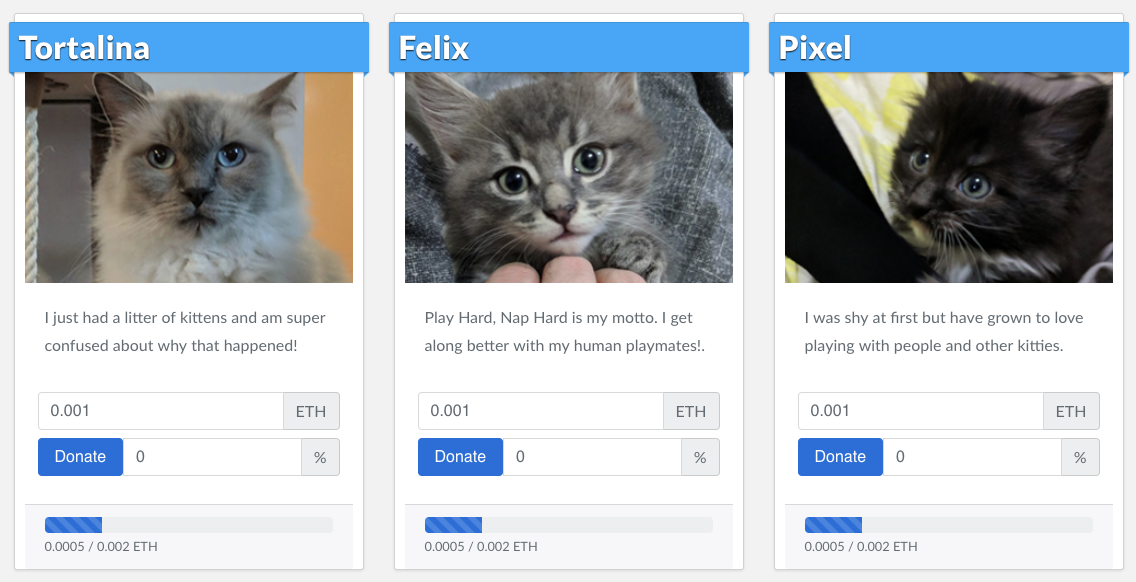
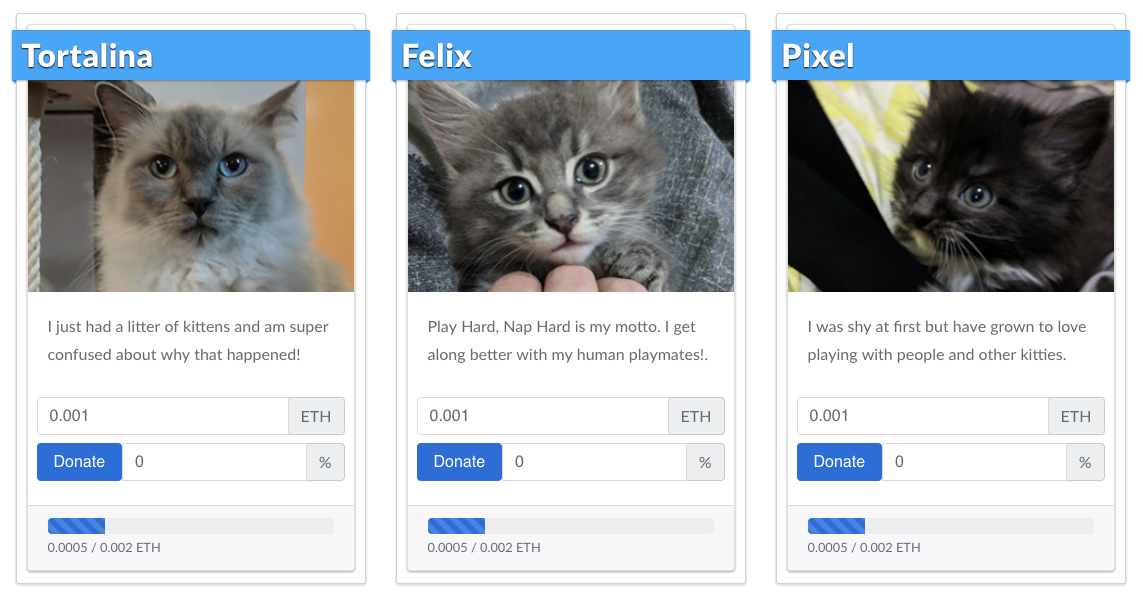
fixed some formatting problems with the ribbons

diff --git a/src/index.html b/src/index.html
@@ -76,40 +76,42 @@
     </div>
 
     <div id="kittyTemplate" style="display: none;">
-        <div class="col-md-4 col-sm-6 col-xs-12">
-            <div class="card ribbon shadow-1">
+        <div class="col-lg-4 col-md-6 col-sm-12">
+            <div class="ribbon">
+                <div class="card shadow-1">
 
-                <!-- Kitty Name -->
-                <h4 class="card-title">Name</h4>
-
-                <!-- Kitty Image -->
-                <img class="card-img-top" src="assets/img/kitties/1.jpg" style="width:100%">
-                
-                <div class="card-block">
-                    <!-- Kitty Description -->
-                    <p class="card-text">Description</p>
-
-                    <!-- Kitty Donation Form -->
-                    <div class="row p-1">
-                        <div class="input-group p-1">
-                            <input class="form-control" type="number" value="0.001" id="donation-amount" aria-label="Amount (ETH)">
-                            <span class="input-group-addon">ETH</span>
-                        </div>
-                        <div class="input-group p-1">
-                            <button class="btn btn-primary btn-donate" type="button" kitty-id="0">Donate</button>
-                            <input class="form-control" type="number" value="0" id="donation-percent" aria-label="Trust (%)">
-                            <span class="input-group-addon">%</span>
-                        </div>
-                    </div>
-                </div>
-                <div class="card-footer">
+                    <!-- Kitty Name -->
+                    <h4 class="card-title">Name</h4>
+    
+                    <!-- Kitty Image -->
+                    <img class="card-img-top" src="assets/img/kitties/1.jpg" style="width:100%">
                     
-                    <!-- Kitty Donation Bar -->
-                    <div class="progress">
-                        <div class="progress-bar progress-bar-striped progress-bar-animated" role="progressbar" style="width: 20%" aria-valuenow="20%"
-                            aria-valuemin="0" aria-valuemax="100"></div>
+                    <div class="card-block">
+                        <!-- Kitty Description -->
+                        <p class="card-text">Description</p>
+    
+                        <!-- Kitty Donation Form -->
+                        <div class="row">
+                            <div class="input-group p-1">
+                                <input class="form-control" type="number" value="0.001" id="donation-amount" aria-label="Amount (ETH)">
+                                <span class="input-group-addon">ETH</span>
+                            </div>
+                            <div class="input-group p-1">
+                                <button class="btn btn-primary btn-donate" type="button" kitty-id="0">Donate</button>
+                                <input class="form-control" type="number" value="0" id="donation-percent" aria-label="Trust (%)">
+                                <span class="input-group-addon">%</span>
+                            </div>
+                        </div>
                     </div>
-                    <small class="text-muted">0.0005 / 0.002 ETH</small>
+                    <div class="card-footer">
+                        
+                        <!-- Kitty Donation Bar -->
+                        <div class="progress">
+                            <div class="progress-bar progress-bar-striped progress-bar-animated" role="progressbar" style="width: 20%" aria-valuenow="20%"
+                                aria-valuemin="0" aria-valuemax="100"></div>
+                        </div>
+                        <small class="text-muted">0.0005 / 0.002 ETH</small>
+                    </div>
                 </div>
             </div>
         </div>

diff --git a/src/assets/css/main.css b/src/assets/css/main.css
@@ -196,7 +196,7 @@ i {
 .ribbon {
     width: 100%;
     margin: 10px auto;
-    padding: 0 10px 0;
+    padding: 10px 10px 0;
     position: relative;
     color: #0674bb;
     background: #fff;
@@ -214,7 +214,7 @@ i {
     padding: 5px 10px;
     position: relative;
     left: -16px;
-    top: 8px;
+    top: 5px;
     color: white;
     text-shadow: 0 1px 1px #111111;
     border-top: 1px solid #3498db;
